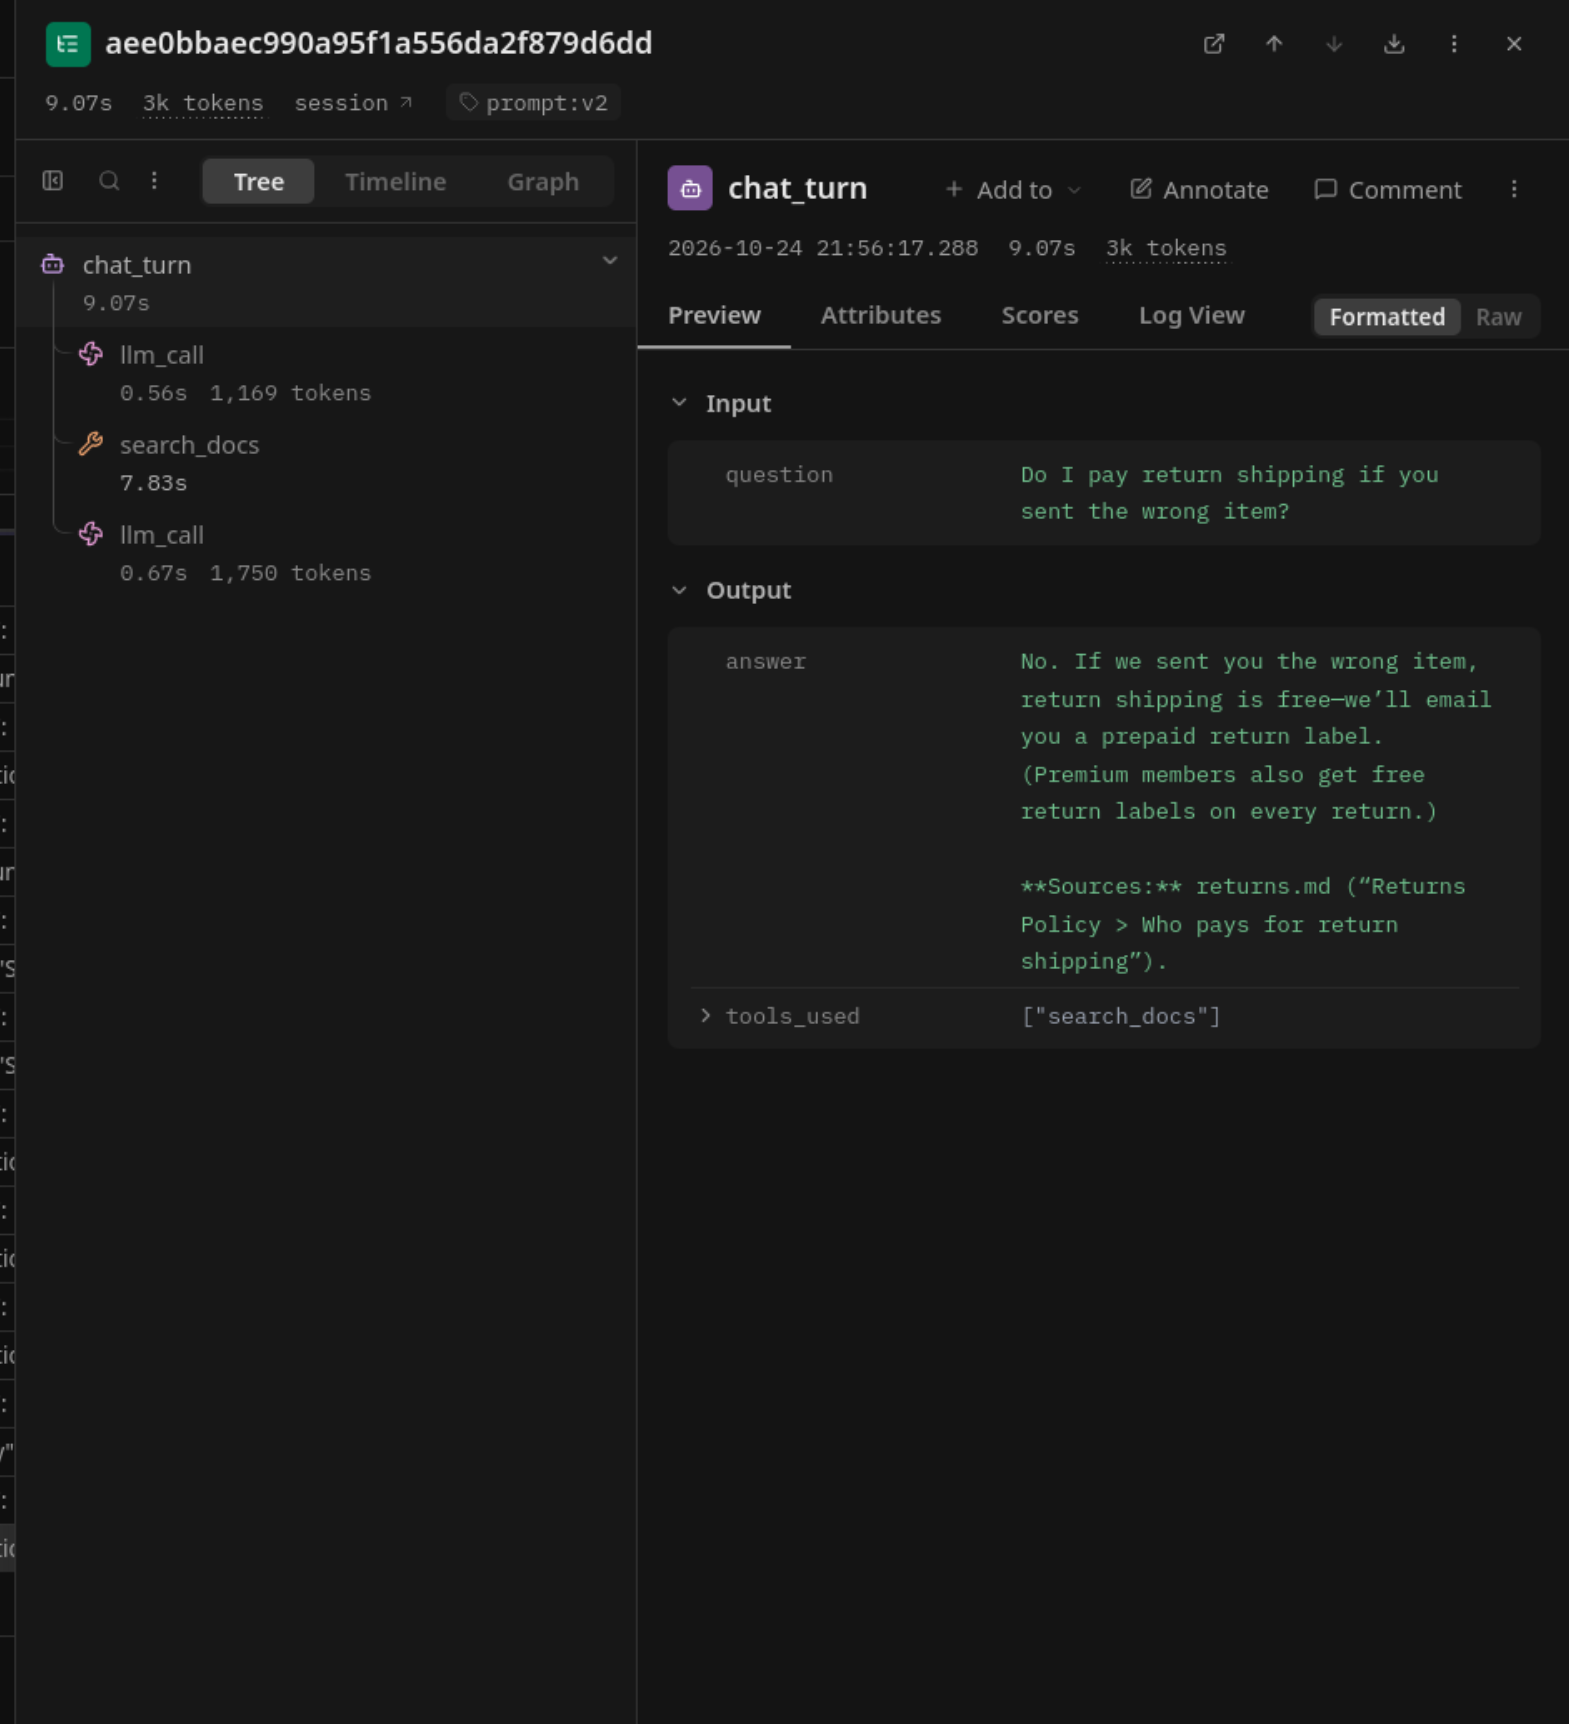
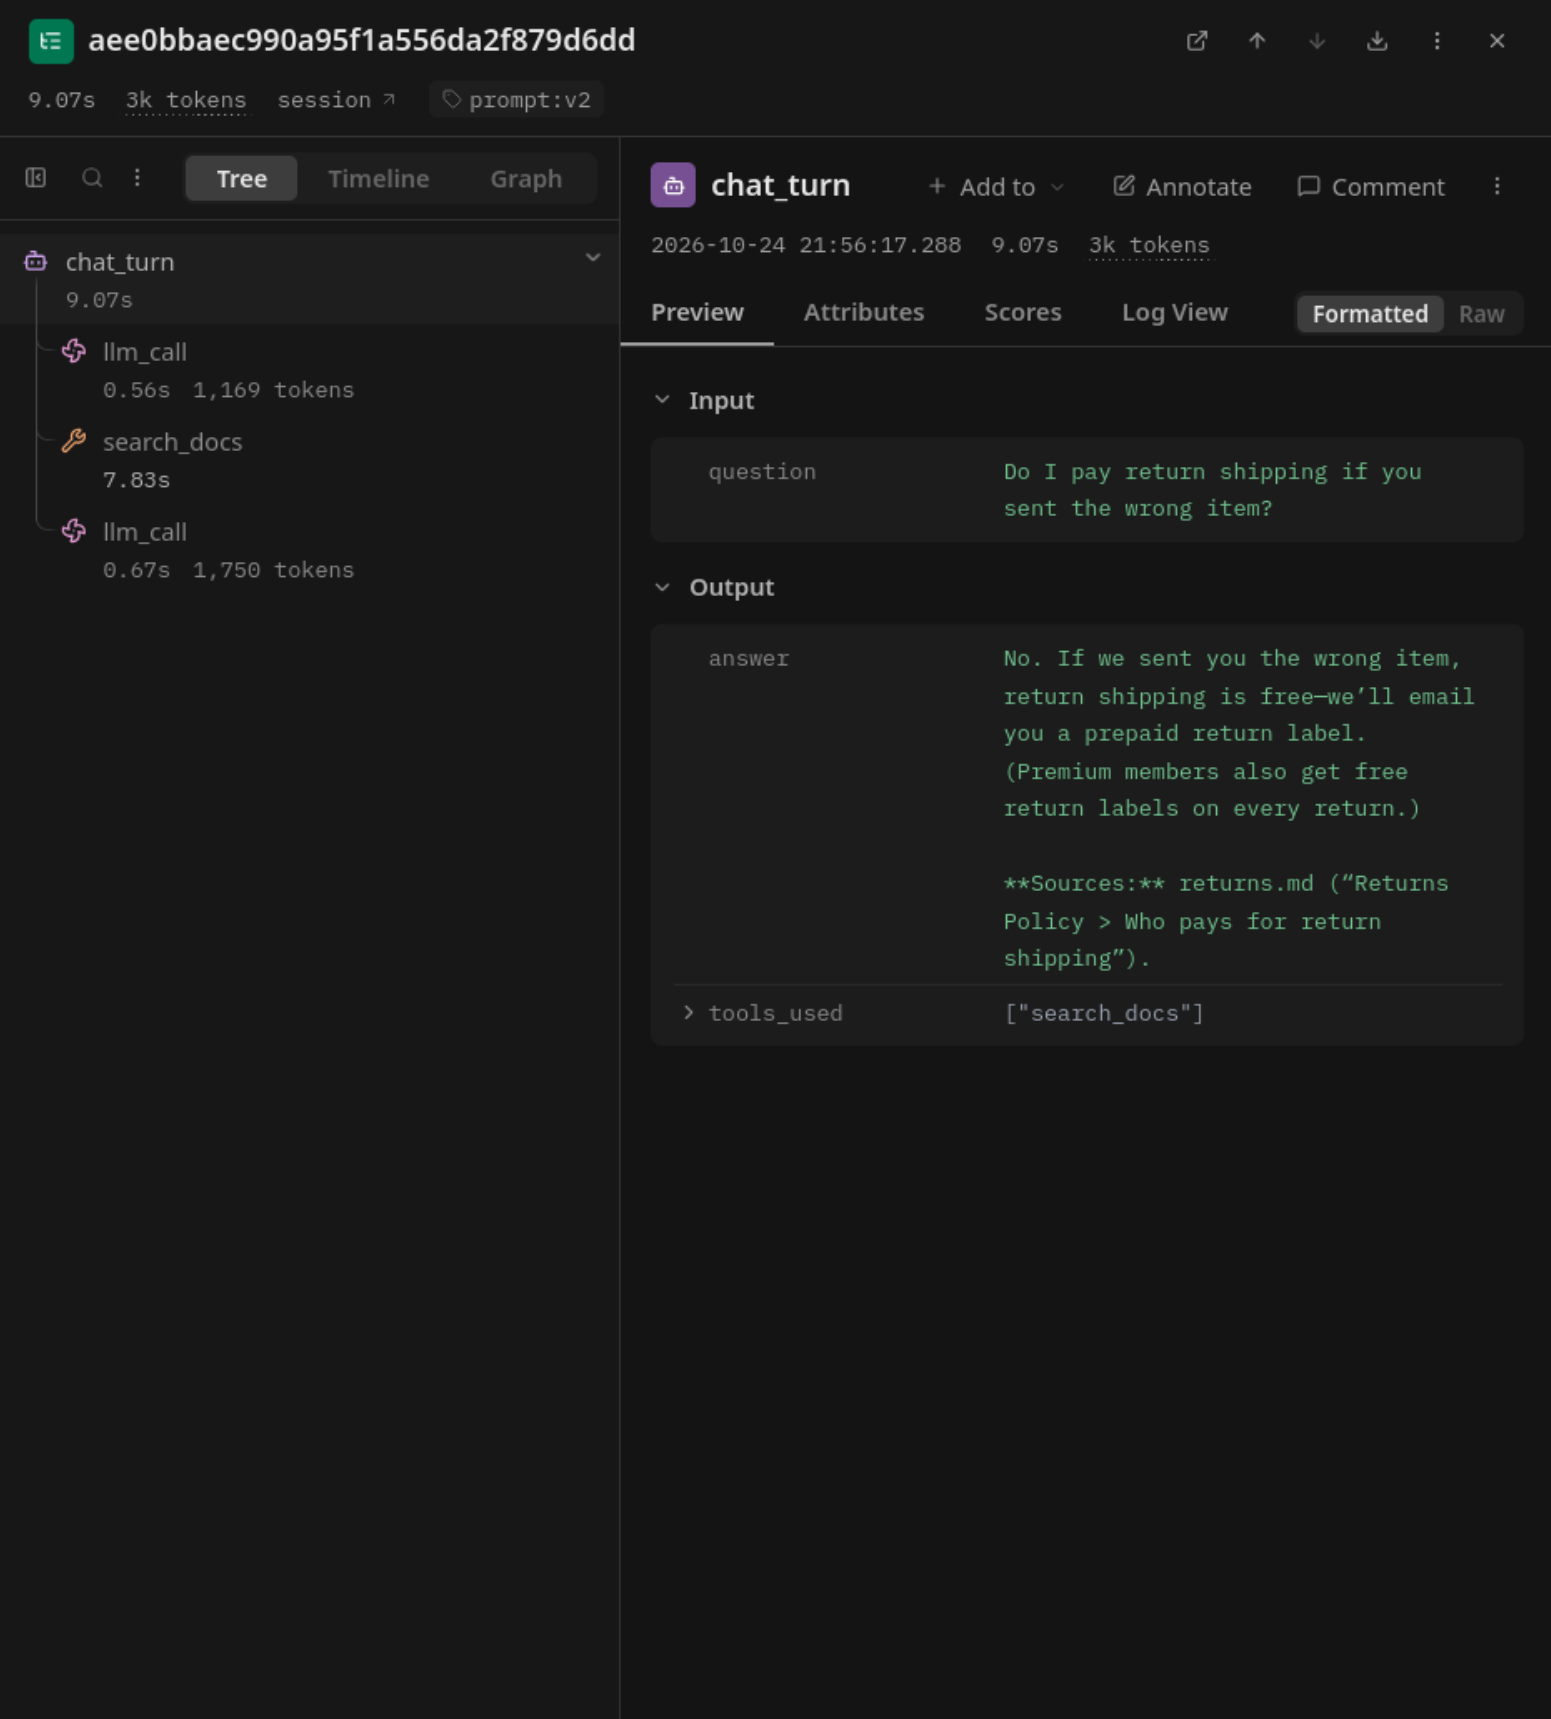
chore: add h10 re-run result and crop the trace screenshot

diff --git a/eval/results/summary-hard.md b/eval/results/summary-hard.md
@@ -4,3 +4,4 @@
 | 20261024-172638 | v2 | groq / openai/gpt-oss-120b | 87% (13/15) | 93% (14/15) | 80% (4/5) | 100% (2/2) | 100% (2/2) | 100% (2/2) | 75% (3/4) |
 | v1-hard-20261024-172153 (re-scored) | v1 | groq / openai/gpt-oss-120b | 80% (12/15) | 93% (14/15) | 80% (4/5) | 100% (2/2) | 100% (2/2) | 50% (1/2) | 75% (3/4) |
 | v2-hard-20261024-172638 (re-scored) | v2 | groq / openai/gpt-oss-120b | 93% (14/15) | 100% (15/15) | 100% (5/5) | 100% (2/2) | 100% (2/2) | 100% (2/2) | 75% (3/4) |
+| 20261024-221242 | v2 | groq / openai/gpt-oss-120b | 100% (1/1) | 100% (1/1) | - | - | - | - | 100% (1/1) |
